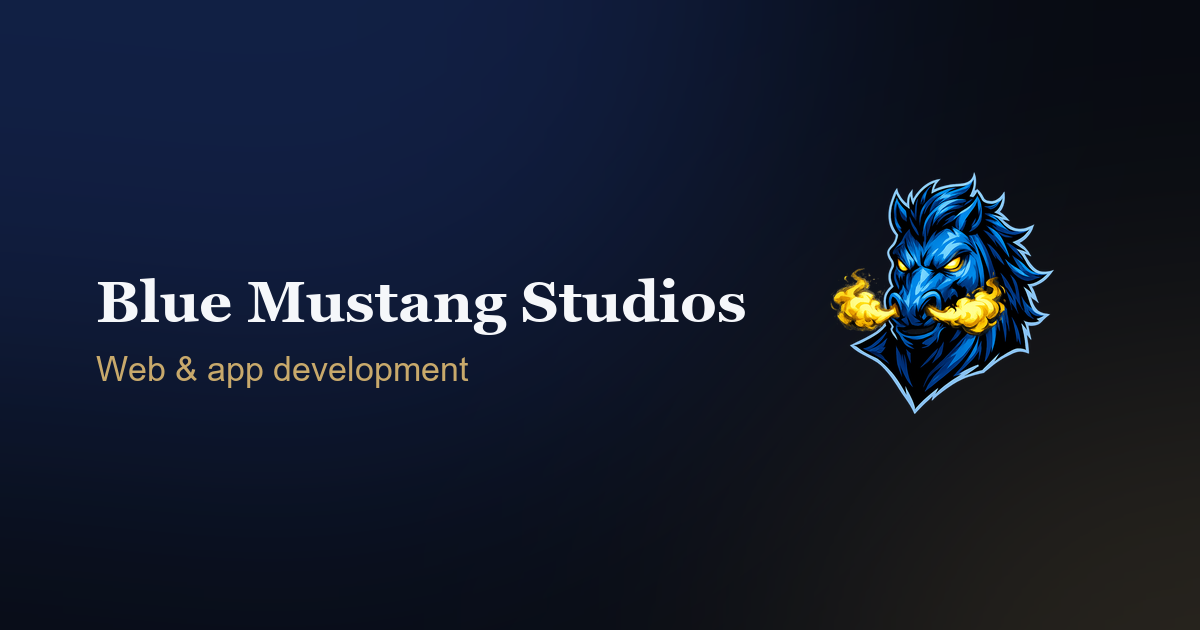
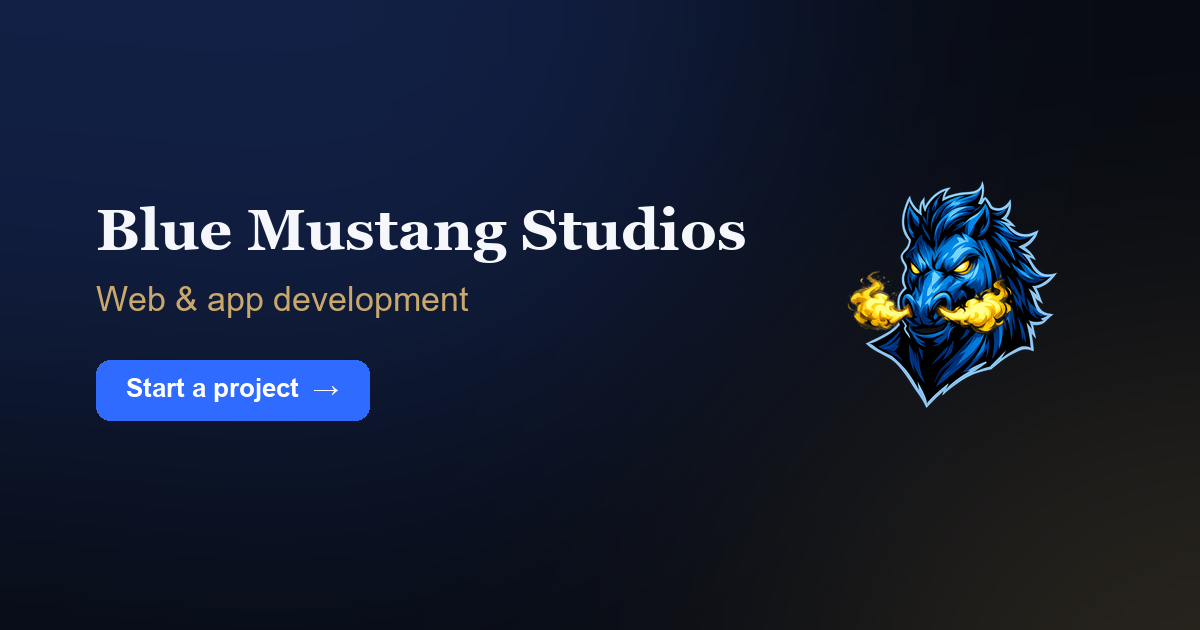
Improve OG/SEO metadata per checker feedback
- Lengthen title to 51 chars (50-60 optimal): "Blue Mustang Studios
  | Custom Web & App Development"
- Lengthen meta/og/twitter description to 152 chars (110-160 optimal)
- Add "Start a project" call-to-action button to the OG share image

Changed region(s): [[0.0617, 0.3317, 0.6167, 0.5429], [0.6783, 0.2714, 0.8942, 0.6635], [0.0617, 0.573, 0.4008, 0.6937]]

diff --git a/index.html b/index.html
@@ -3,22 +3,22 @@
 <head>
   <meta charset="UTF-8">
   <meta name="viewport" content="width=device-width, initial-scale=1.0">
-  <title>Blue Mustang Studios | Web & app development</title>
-  <meta name="description" content="Blue Mustang Studios is an independent studio for web and app development. One developer, real software, built end-to-end.">
+  <title>Blue Mustang Studios | Custom Web & App Development</title>
+  <meta name="description" content="Blue Mustang Studios is an independent web and app development studio. One developer, real software, built end-to-end for people who want it done right.">
   <link rel="canonical" href="https://bluemustangstudios.com/">
 
   <!-- Open Graph / social sharing -->
   <meta property="og:type" content="website">
   <meta property="og:site_name" content="Blue Mustang Studios">
-  <meta property="og:title" content="Blue Mustang Studios | Web & app development">
-  <meta property="og:description" content="An independent studio for web and app development. One developer, real software, built end-to-end.">
+  <meta property="og:title" content="Blue Mustang Studios | Custom Web & App Development">
+  <meta property="og:description" content="Blue Mustang Studios is an independent web and app development studio. One developer, real software, built end-to-end for people who want it done right.">
   <meta property="og:url" content="https://bluemustangstudios.com/">
   <meta property="og:image" content="https://bluemustangstudios.com/og-image.png">
   <meta property="og:image:width" content="1200">
   <meta property="og:image:height" content="630">
   <meta name="twitter:card" content="summary_large_image">
-  <meta name="twitter:title" content="Blue Mustang Studios | Web & app development">
-  <meta name="twitter:description" content="An independent studio for web and app development. One developer, real software, built end-to-end.">
+  <meta name="twitter:title" content="Blue Mustang Studios | Custom Web & App Development">
+  <meta name="twitter:description" content="Blue Mustang Studios is an independent web and app development studio. One developer, real software, built end-to-end for people who want it done right.">
   <meta name="twitter:image" content="https://bluemustangstudios.com/og-image.png">
 
   <link rel="icon" type="image/png" href="Blue Mustang Logo no words.png">